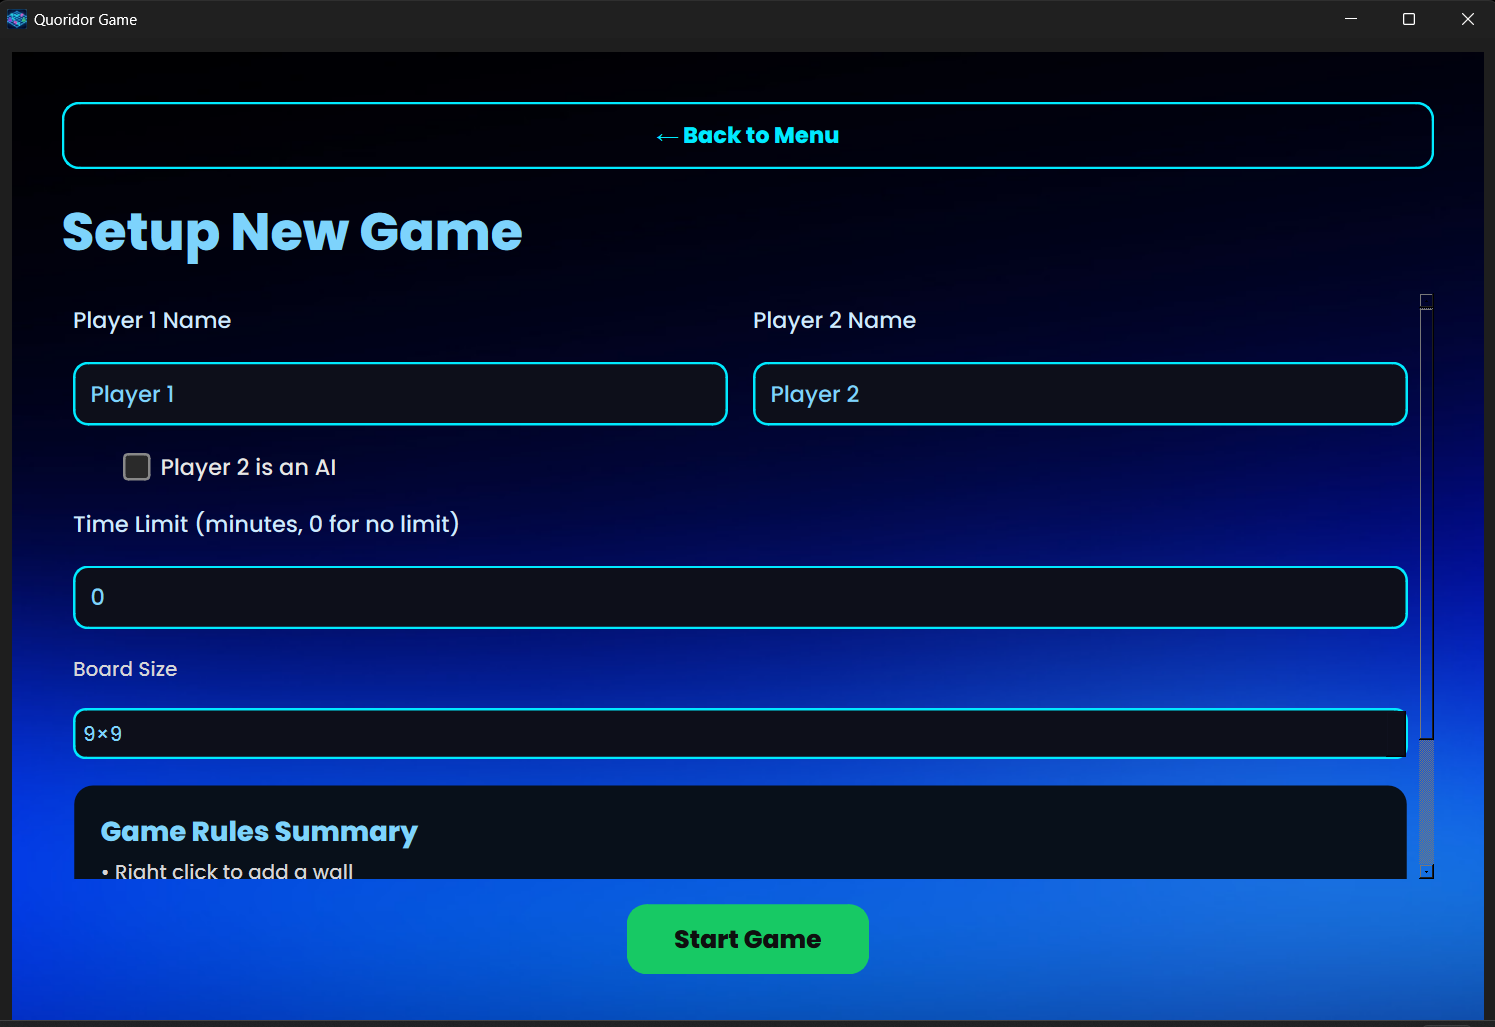
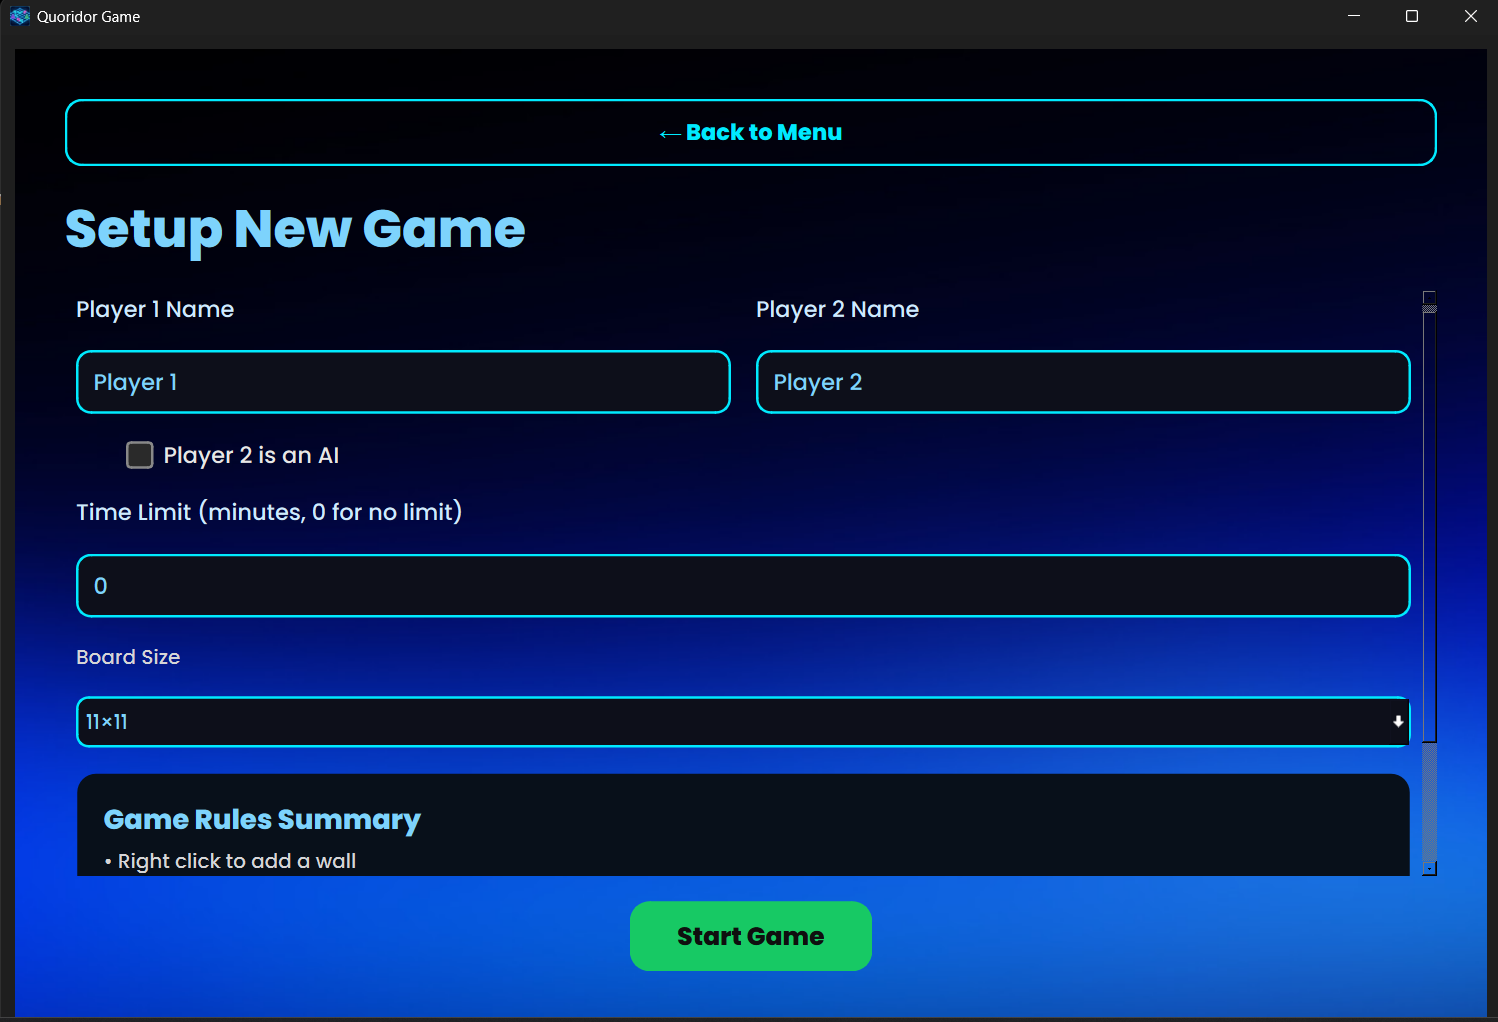
fix the arrows issue

diff --git a/main.py b/main.py
@@ -1,7 +1,12 @@
 import sys
+import os
+import platform
+if platform.system() == "Windows":
+    import ctypes
+    
 from PyQt6.QtWidgets import QApplication,QStackedWidget
-import ctypes
 from PyQt6.QtGui import QIcon,QFontDatabase
+from PyQt6.QtCore import Qt
 from ui.main_window import MainWindow
 from utils import resource_path
 
@@ -15,12 +20,29 @@ def load_fonts():
 
 def load_styles(app):
     with open(resource_path("ui/assets/quoridor_neon.qss"), "r") as f:
-        app.setStyleSheet(f.read())
+        qss = f.read()
+    
+    # Replace placeholders with actual resource paths for PyInstaller compatibility
+    arrow_up_path = resource_path("ui/assets/arrow-light-up.png").replace("\\", "/")
+    arrow_down_path = resource_path("ui/assets/arrow-light-down.png").replace("\\", "/")
+    winner_bg_path = resource_path("ui/assets/pop_up_win3.png").replace("\\", "/")
+    
+    qss = qss.replace("PLACEHOLDER_ARROW_UP", arrow_up_path)
+    qss = qss.replace("PLACEHOLDER_ARROW_DOWN", arrow_down_path)
+    qss = qss.replace("PLACEHOLDER_WINNER_BG", winner_bg_path)
+    
+    app.setStyleSheet(qss)
 
 if __name__ == "__main__":
     
-    ctypes.windll.shell32.SetCurrentProcessExplicitAppUserModelID("quoridor.game")
+    if platform.system() == "Windows":
+        ctypes.windll.shell32.SetCurrentProcessExplicitAppUserModelID("quoridor.game")
+    
     app = QApplication(sys.argv)
+    
+    # dark theme
+    app.styleHints().setColorScheme(Qt.ColorScheme.Dark)
+    
     app.setWindowIcon(QIcon(resource_path("ui/assets/icon.ico")))
     load_fonts()
     load_styles(app)

diff --git a/ui/game_window.py b/ui/game_window.py
@@ -247,7 +247,6 @@ class GameWindow(QWidget):
         self.update_walls_labels()
         
         if self.game.winner is not None:
-            # Handle game over if needed (maybe show message)
             self.board.show_winner()
             
         # If AI is enabled and it is AI turn (player 1)
